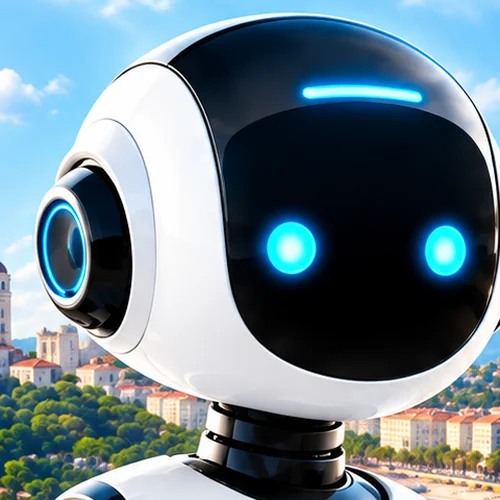
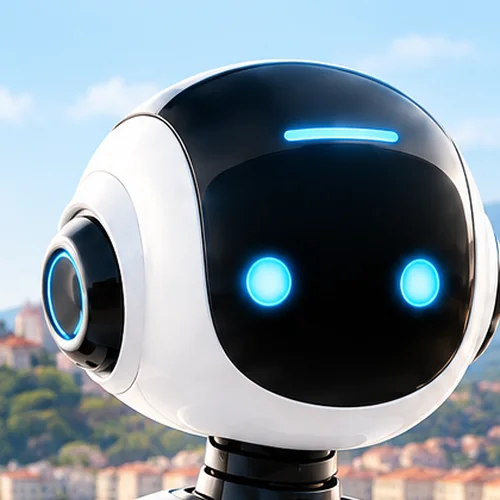
Add files via upload

diff --git a/index.html b/index.html
@@ -21,7 +21,7 @@
 <meta name="theme-color" content="#f3f2f2">
 <link rel="icon" href="favicon.svg" type="image/svg+xml">
 <script type="application/ld+json">{"@context":"https://schema.org","@graph":[{"@type":"WebSite","@id":"https://nice.immo/#site","url":"https://nice.immo/","name":"Nice.immo","inLanguage":"fr","description":"Estimation immobilière à Nice par IA, fondée sur les ventes réelles notariées.","publisher":{"@id":"https://nice.immo/#org"}},{"@type":"Organization","@id":"https://nice.immo/#org","name":"Nice.immo","url":"https://nice.immo/","email":"contact@nice.immo","logo":"https://nice.immo/og-nice.jpg"},{"@type":"WebPage","@id":"https://nice.immo/#page","url":"https://nice.immo/","name":"Estimation immobilière à Nice par IA | Nice.immo","isPartOf":{"@id":"https://nice.immo/#site"},"about":{"@type":"Place","name":"Nice"}}]}</script>
-<link rel="preload" as="image" href="robot-nice-1000.webp" media="(min-width:821px)">
+<link rel="preload" as="image" href="robot-nice-1024.webp" media="(min-width:821px)">
 <link rel="preconnect" href="https://fonts.googleapis.com">
 <link rel="preconnect" href="https://fonts.gstatic.com" crossorigin>
 <link href="https://fonts.googleapis.com/css2?family=Cormorant+Garamond:ital,wght@0,400;0,500;0,600;1,400;1,500&family=Lora:ital,wght@0,400;0,500;1,400&display=swap" rel="stylesheet">
@@ -72,7 +72,7 @@ main{flex:1;display:flex;flex-direction:column;padding:22px 0 0;min-height:0}
 /* Scène : portrait + dialogue */
 /* la scène prend la hauteur restante de la fenêtre (élastique) : rien ne dépasse, la conversation défile dans la carte, le portrait ne bouge pas quand on parle ; sous 380 px de place, la page défile */
 .scene{display:grid;grid-template-columns:auto minmax(0,1fr);grid-template-rows:auto minmax(0,1fr);gap:0 40px;min-height:380px} /* hauteur posée par ajusteScene() */
-.plate{grid-column:1;grid-row:1/3;height:100%;aspect-ratio:1062/1482;min-height:0;max-width:34vw}
+.plate{grid-column:1;grid-row:1/3;height:100%;aspect-ratio:1024/1536;min-height:0;max-width:34vw}
 .plate img{width:100%;height:100%;object-fit:cover;object-position:center top;display:block}
 .card{grid-column:2;border:1px solid var(--color-divider);border-radius:var(--radius-md);background:var(--color-surface);box-shadow:var(--shadow-sm);padding:28px 30px 20px;display:flex;flex-direction:column;min-height:0;overflow:hidden;position:relative}
 .card.glisse{outline:2px dashed var(--color-accent);outline-offset:-6px;background:var(--color-accent-100)}
@@ -241,7 +241,7 @@ footer.bottom .ia b{font-family:var(--font-heading);font-size:15px;font-weight:6
 <main>
   <div class="wrap stage">
     <section class="scene" aria-label="Estimation de votre bien">
-      <div class="plate"><img src="robot-nice-1000.webp" width="1000" height="1395" alt="Assistant robot d’estimation immobilière devant la baie des Anges à Nice" fetchpriority="high"></div>
+      <div class="plate"><img src="robot-nice-1024.webp" width="1024" height="1536" alt="Assistant robot d’estimation immobilière devant la baie des Anges à Nice" fetchpriority="high"></div>
       <section class="intro" id="estimer">
       <h1>Vous achetez, vendez ou investissez à Nice ?<br>Estimez un bien avec notre <em>IA spécialisée.</em></h1>
       <p>Vous obtenez une estimation fondée sur 22 118 ventes réelles à Nice depuis 2023.</p>
@@ -646,11 +646,18 @@ if(ev.key==='Enter'&&!ev.shiftKey){ev.preventDefault();document.getElementById('
    pas d'ascenseur de page, la conversation défile dans la carte ; sous 340 px, la page défile */
 function ajusteScene(){
 var sc=document.querySelector('.scene');
-if(window.innerWidth<981){sc.style.height='';}
+var br=document.querySelector('.brand');
+if(window.innerWidth<981){sc.style.height='';if(br)br.style.transform='';document.querySelector('.partner').style.gridTemplateColumns='';}
 else{
 var top=sc.getBoundingClientRect().top+window.scrollY;
 var bas=document.querySelector('.partner').offsetHeight+document.querySelector('footer.bottom').offsetHeight+18;
 sc.style.height=Math.max(380,window.innerHeight-top-bas)+'px';
+/* logo centré sur la colonne du robot */
+if(br){br.style.transform='';
+var pr=document.querySelector('.plate').getBoundingClientRect(),bb=br.getBoundingClientRect();
+br.style.transform='translateX('+((pr.left+pr.width/2)-(bb.left+bb.width/2)).toFixed(1)+'px)';}
+/* colonne du bouton Partenariat alignée sur celle du robot */
+document.querySelector('.partner').style.gridTemplateColumns=document.querySelector('.plate').getBoundingClientRect().width+'px minmax(0,1fr)';
 }
 recale(); /* la zone de conversation vient de changer de hauteur */
 }
